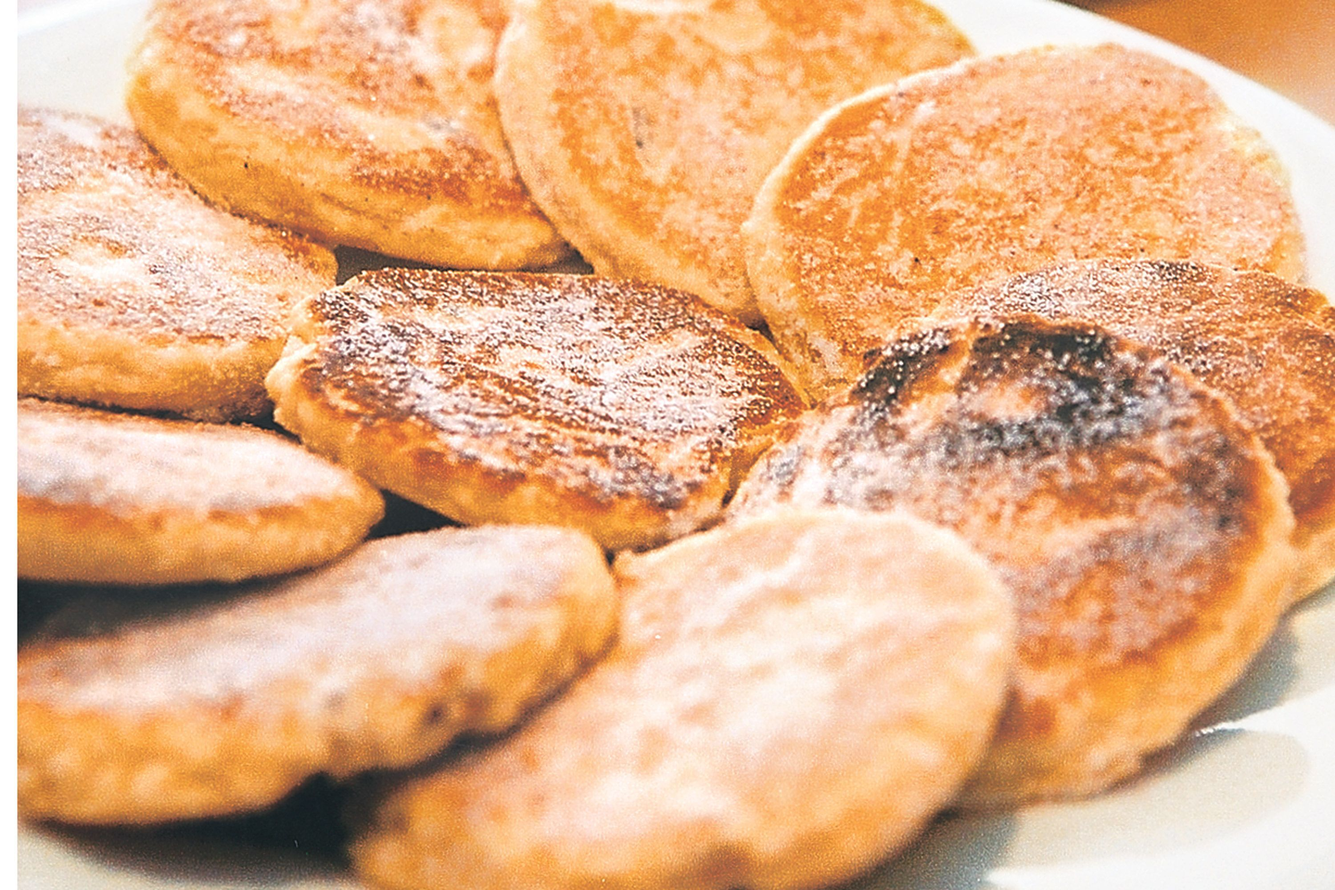
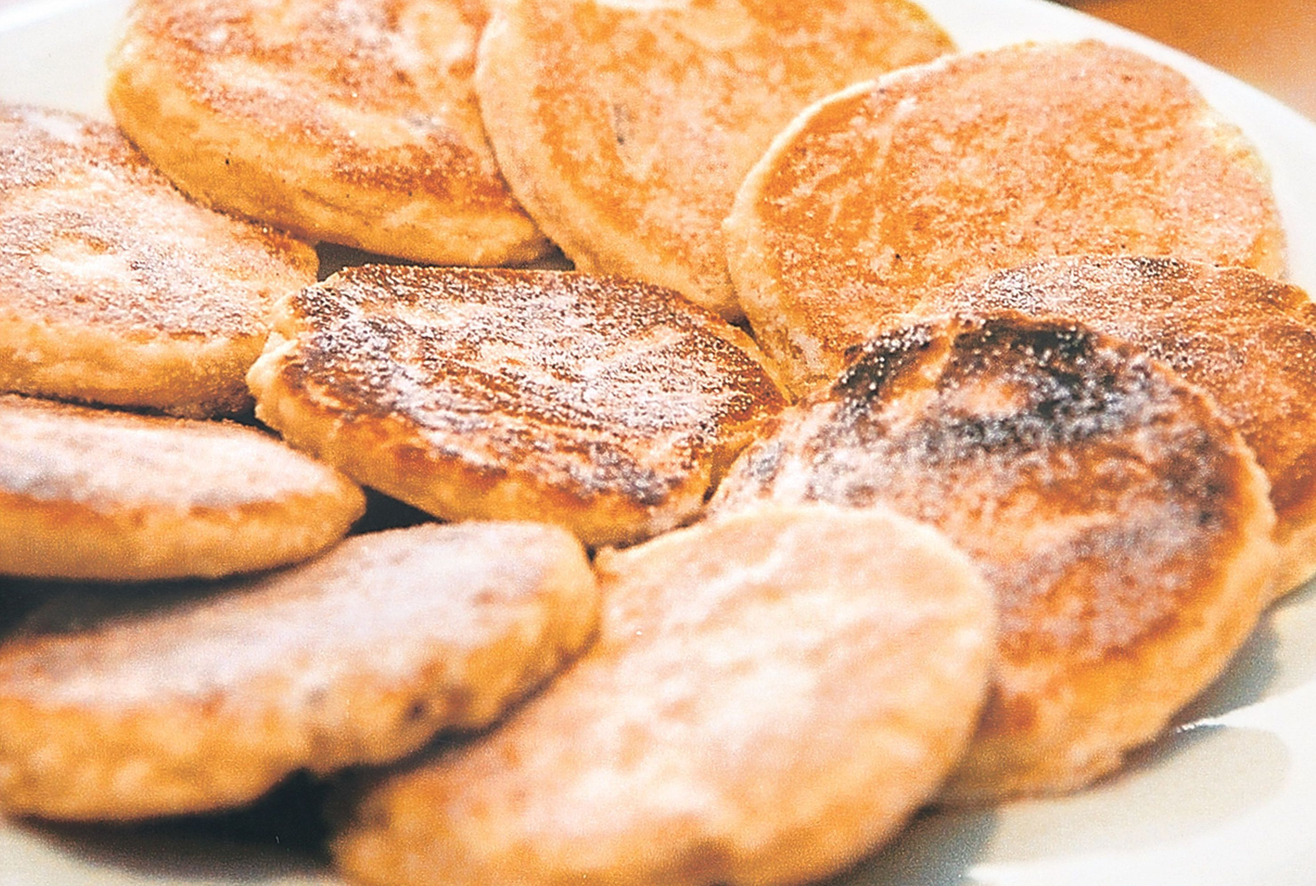
Center recipe page pics

diff --git a/style.css b/style.css
@@ -5,6 +5,9 @@ body {
 
 p img {
     border: 4px solid black;
+    display: block;
+    margin-left: auto;
+    margin-right: auto;
 }
 
 .title.homepage {
@@ -47,4 +50,3 @@ div.text {
     background-color: beige;
 }
 
-.wctitle {}
